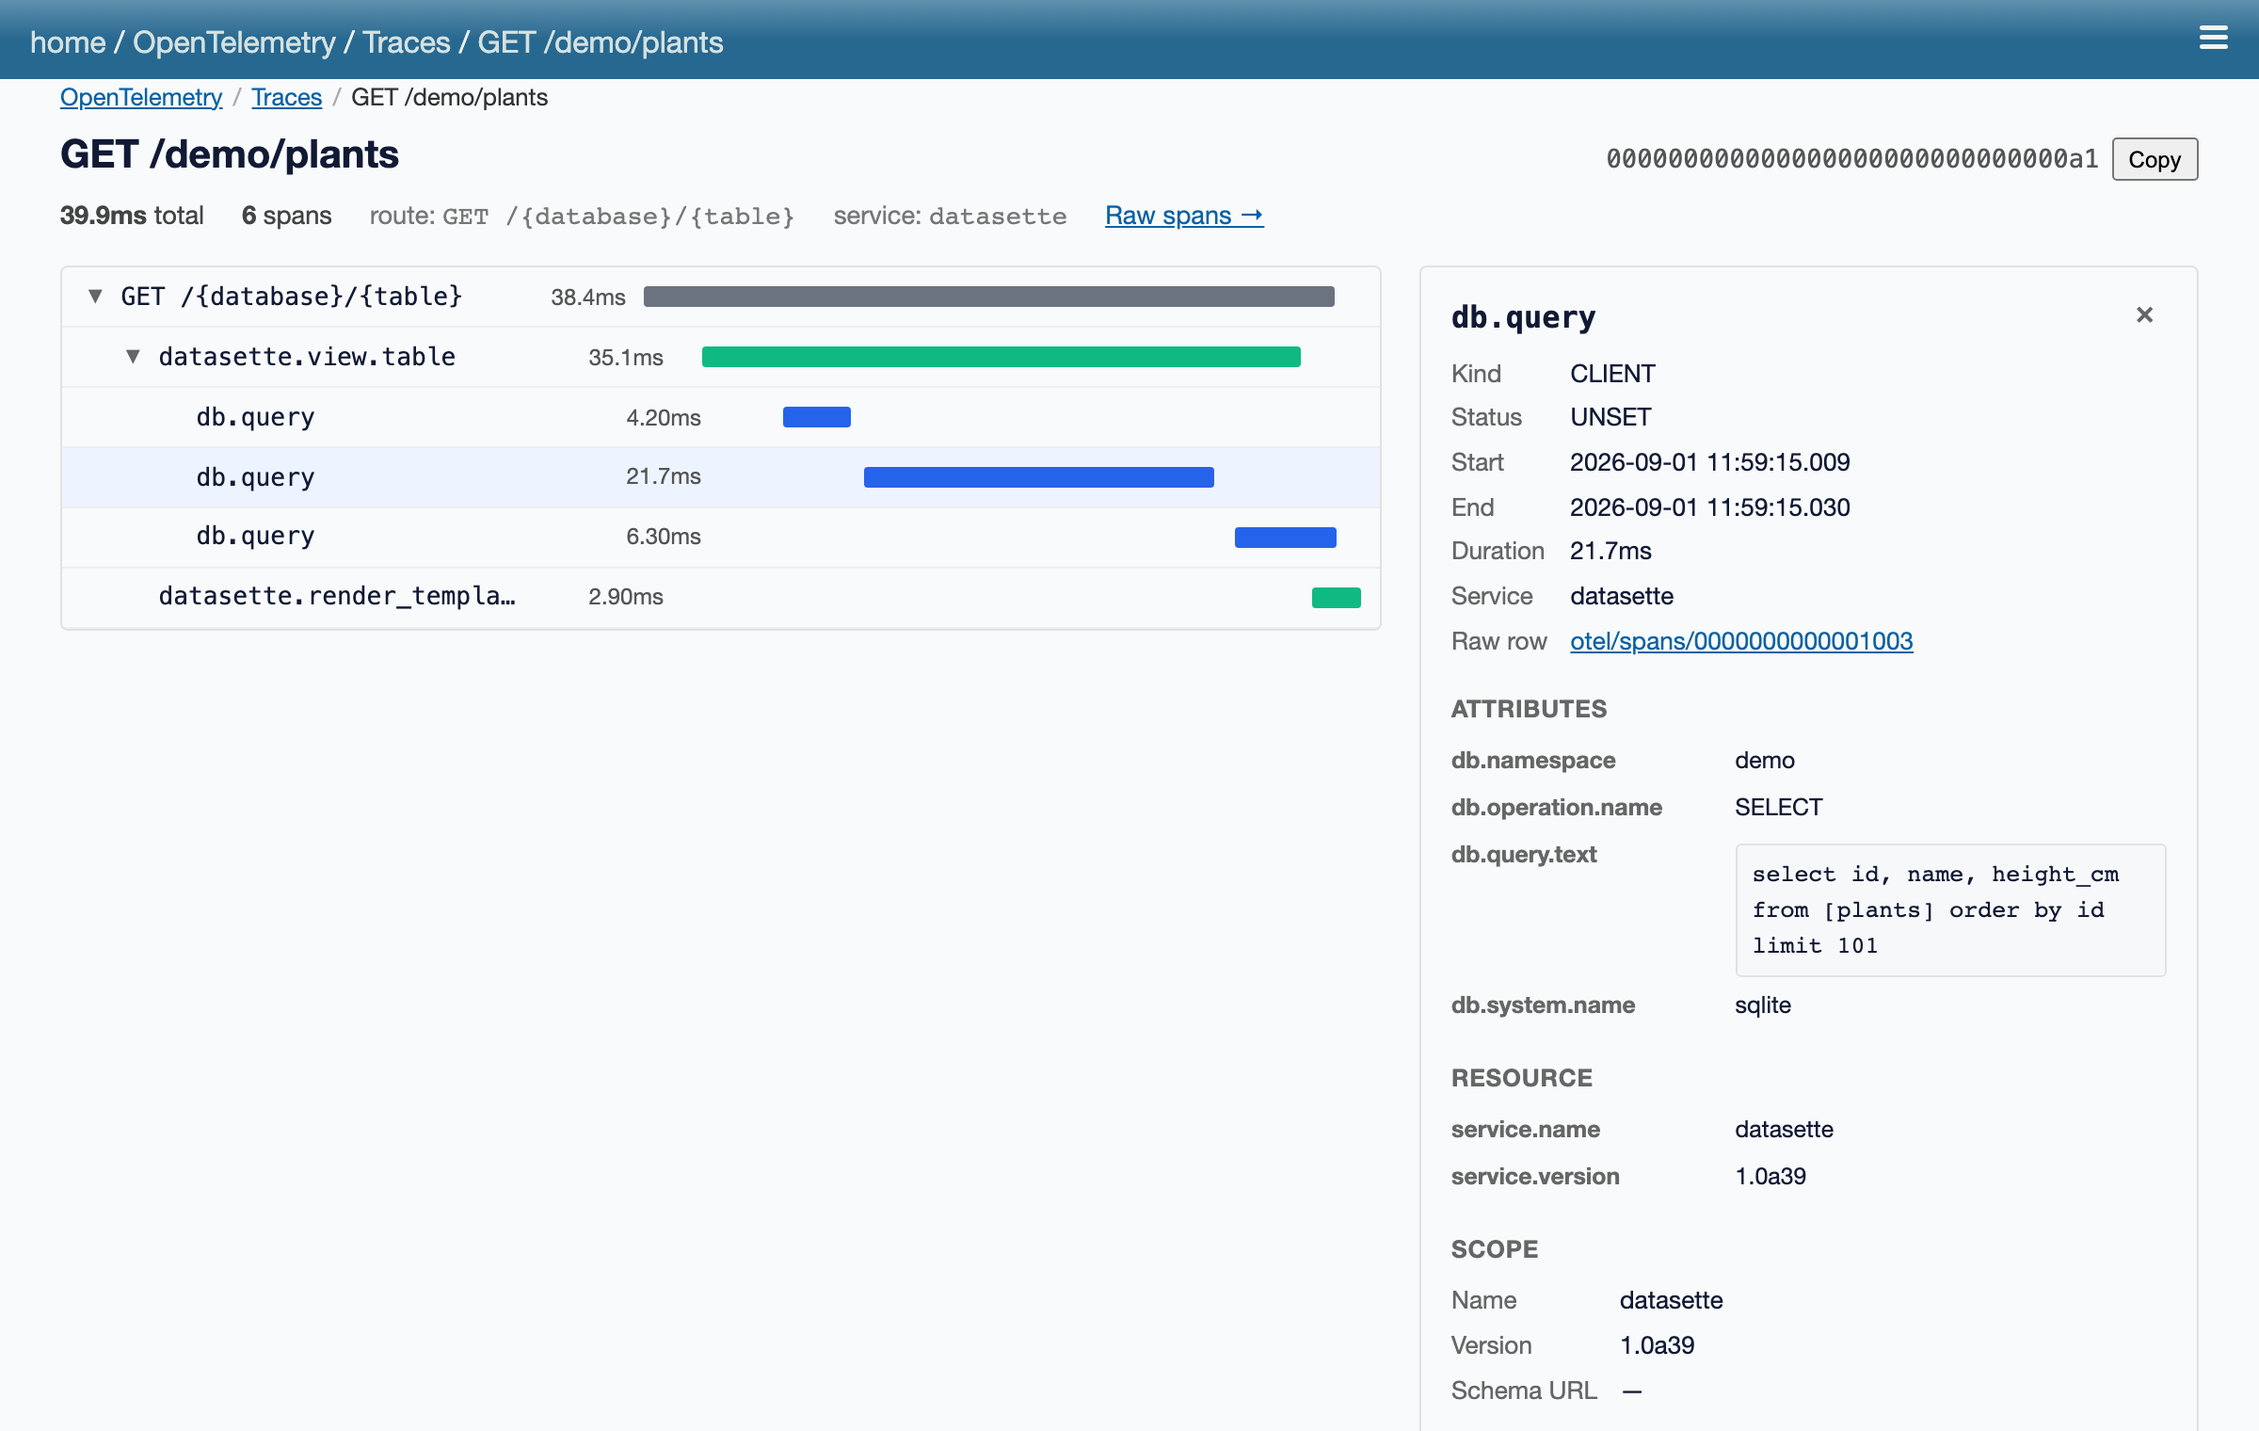
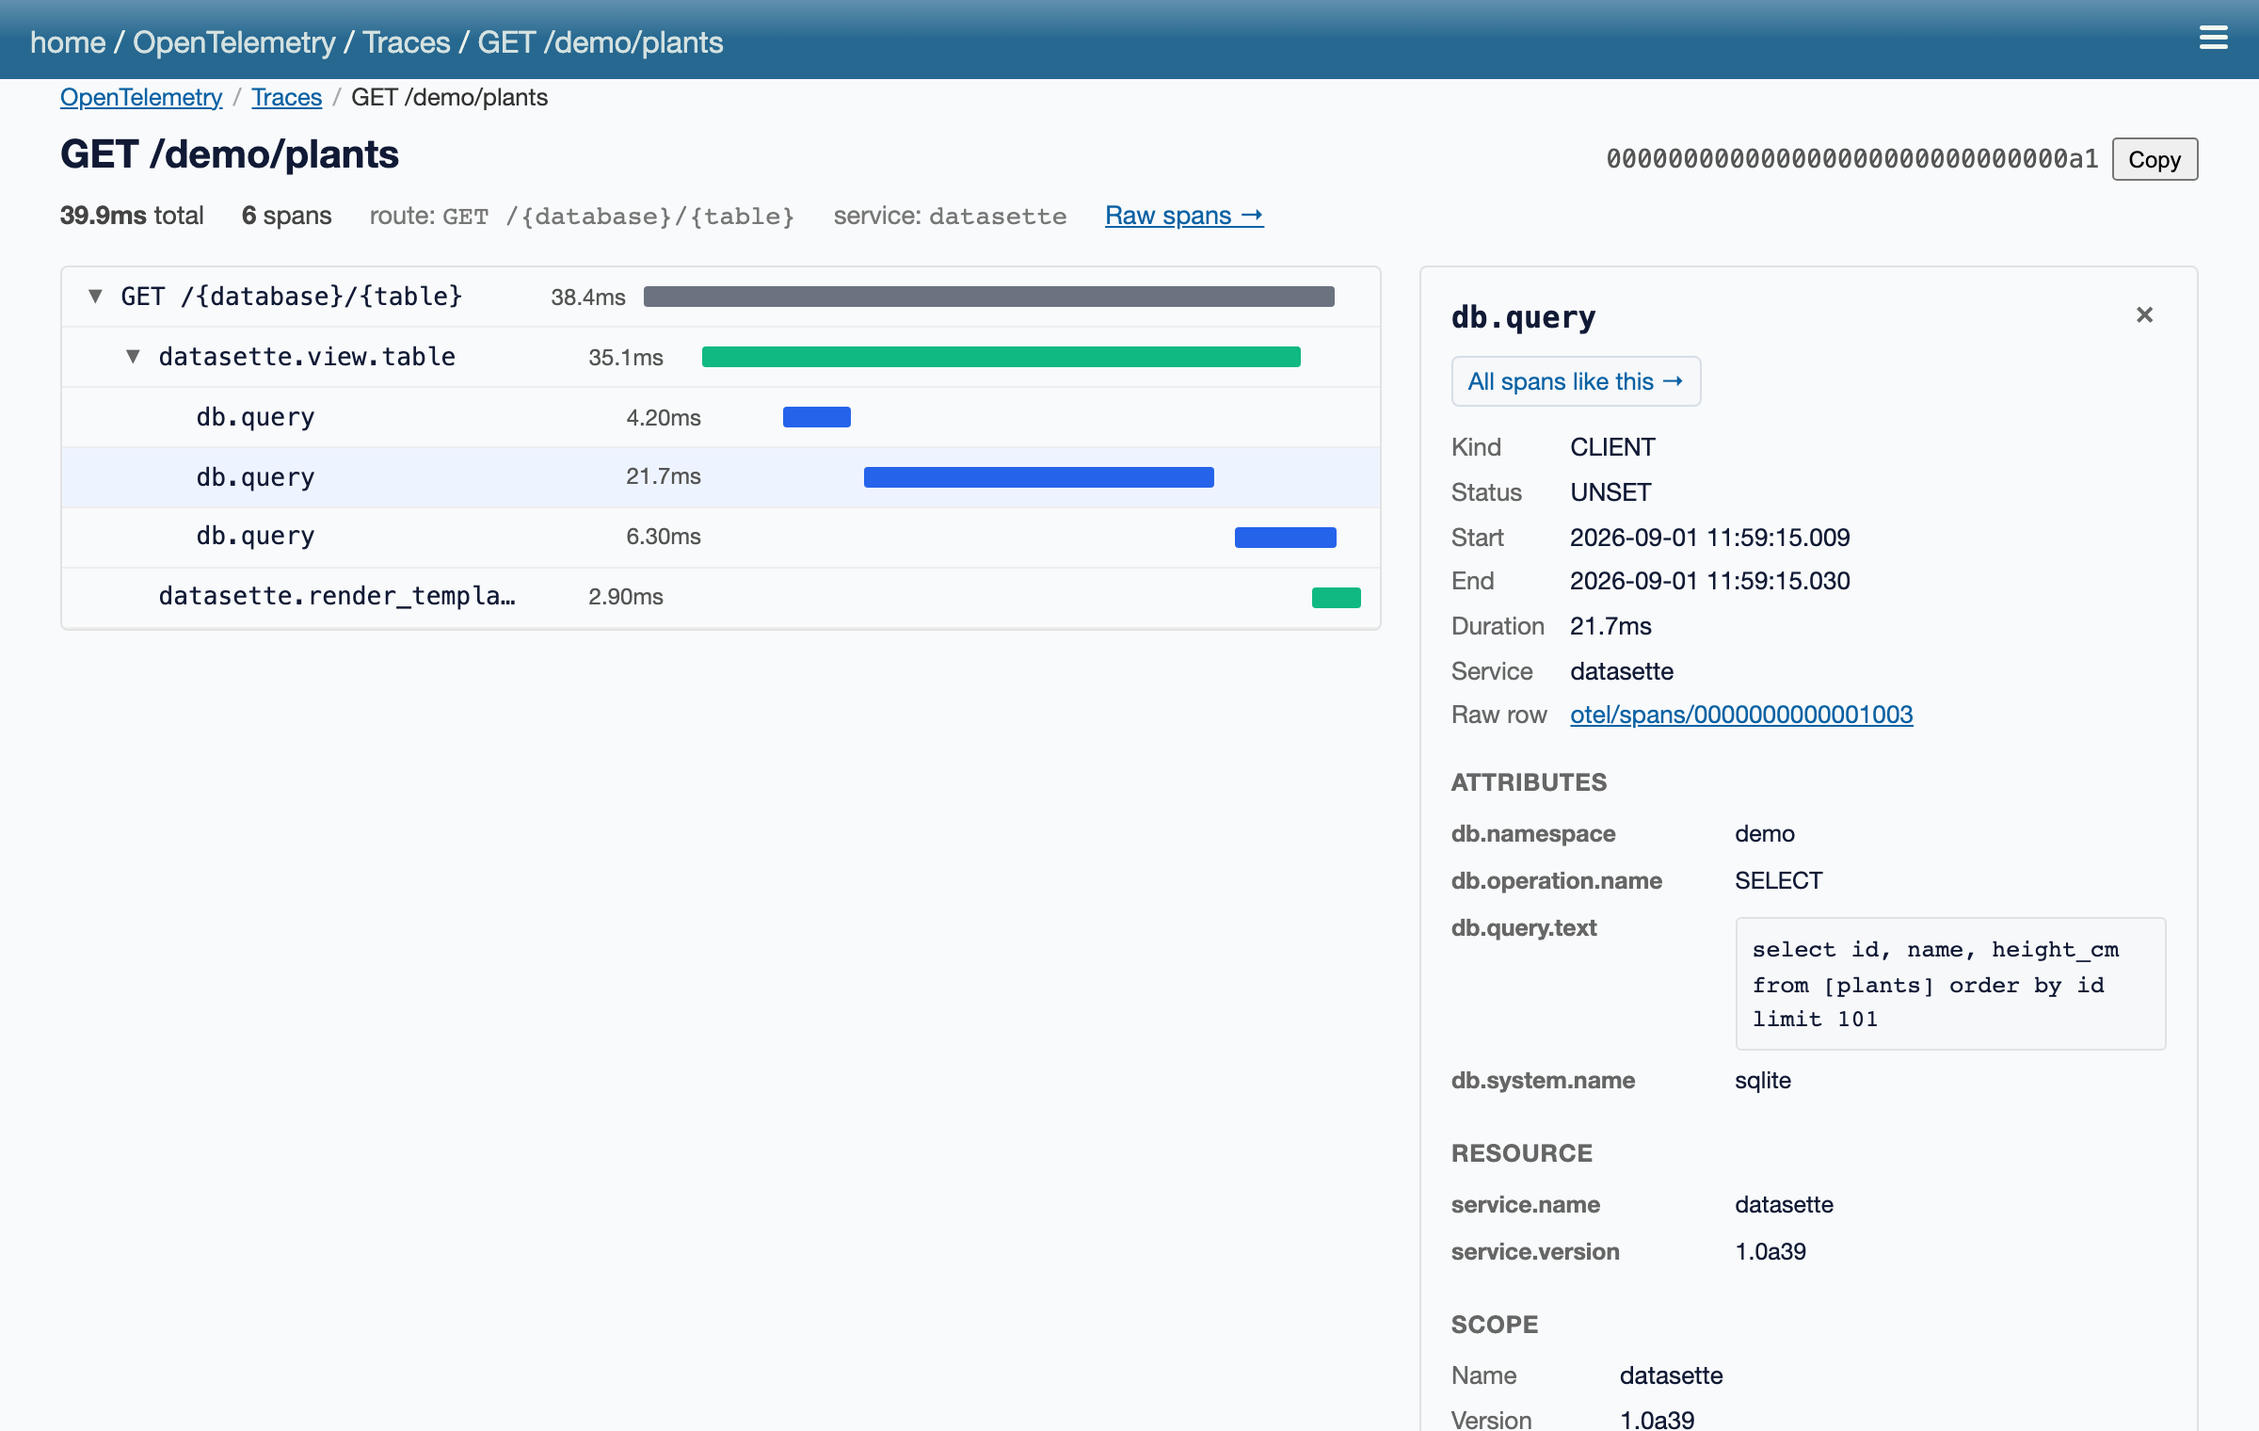
Link a span to every span like it
The waterfall could only ever show you one span in one trace, which is no
help at all in deciding whether 21ms is normal for it. "All spans like
this" in the inspector opens /-/otel/spans/list for that span's name and
scope, with the span itself pinned via ?highlight=<span_id>.

Pinning has to actually land on the span, or the link is a lie. With a
highlight and no cursor of its own, span_list() ranks the span with one
window over the matching spans -- under whatever ordering is in force --
and writes the resulting page offset back onto query.next, so the
frontend, the URL and Previous all see an ordinary offset from there.
An explicit _next wins, so paging away from the pinned page doesn't snap
back to it. The page scrolls the row into view and marks it; when the pin
isn't on the page in front of you (you paged on, or dropped a filter it
depended on) the chip says so, and dropping the chip drops the pin.

highlight is pattern-checked as a span id, so a bad one is a 400.

Claude-Session: https://claude.ai/code/session_0128EpC65FNHF1kZPeueAb12

Changed region(s): [[0.625, 0.2474, 0.9375, 0.7421], [0.625, 0.7421, 0.75, 1.0], [0.7812, 0.773, 0.8125, 0.8967]]

diff --git a/frontend/src/pages/spans_list/SpansListPage.svelte b/frontend/src/pages/spans_list/SpansListPage.svelte
@@ -49,6 +49,27 @@
     offset - size > 0 ? String(offset - size) : null,
   );
 
+  /** The span the trace view sent us to, if it is on the page in front of
+   * us. The server opens the list on the page holding it, so normally it is
+   * -- but paging on from there, or dropping a filter, can leave it behind,
+   * and a pin that quietly points at nothing is worse than one that says so. */
+  const highlightShown = $derived(
+    query.highlight != null &&
+      spans.some((row) => row.span_id === query.highlight),
+  );
+
+  // Bring the pinned row into view whenever it lands on the page: it can be
+  // row 80 of 100, and a highlight below the fold is not a highlight.
+  $effect(() => {
+    if (!highlightShown) return;
+    const id = query.highlight;
+    requestAnimationFrame(() => {
+      document
+        .getElementById(`span-row-${id}`)
+        ?.scrollIntoView({ block: "center" });
+    });
+  });
+
   /** What this list is showing, as removable chips: the catalogue row that
    * was opened, plus any filter it was carrying at the time. */
   const filterChips = $derived(
@@ -75,6 +96,13 @@
             `Slower than ${query.min_duration_ms} ms`,
         ],
         ["service", query.service && `Service ${query.service}`],
+        [
+          "highlight",
+          query.highlight &&
+            (highlightShown
+              ? "Span you came from"
+              : "Span you came from (not on this page)"),
+        ],
       ] as [keyof SpanListQuery, string | false | null | undefined][]
     )
       .filter(([, label]) => Boolean(label))
@@ -221,7 +249,9 @@
     <tbody>
       {#each spans as row (row.span_id)}
         <tr
+          id={`span-row-${row.span_id}`}
           class="row-link"
+          class:highlighted={row.span_id === query.highlight}
           onclick={() => (window.location.href = spanUrl(row))}
         >
           <td class="span-name">
@@ -397,6 +427,15 @@
   }
   tbody tr.row-link:hover {
     background: #f6f8fa;
+  }
+  tbody tr.highlighted > td {
+    background: #fff8e1;
+  }
+  tbody tr.highlighted > td:first-child {
+    box-shadow: inset 3px 0 0 #e0a800;
+  }
+  tbody tr.highlighted:hover > td {
+    background: #fdf1cd;
   }
   td.empty {
     text-align: center;

diff --git a/frontend/src/pages/trace_detail/TraceDetailPage.svelte b/frontend/src/pages/trace_detail/TraceDetailPage.svelte
@@ -101,6 +101,18 @@
     }
   }
 
+  /** The span catalogue, narrowed to this kind of work: same name, same
+   * instrumentation scope (which is what /-/otel/spans keys a row on), with
+   * this span pinned so the list opens on its page and marks its row. One
+   * span in one trace tells you nothing about whether 40ms is normal; this
+   * is the jump from "this span" to "every span like it". */
+  function spanListUrl(span: TraceDetailPageData["spans"][number]): string {
+    const params = new URLSearchParams({ name_exact: span.name });
+    if (span.scope_name) params.set("scope", span.scope_name);
+    params.set("highlight", span.span_id);
+    return `/-/otel/spans/list?${params}`;
+  }
+
   function attributeEntries(obj: Record<string, unknown>): [string, string][] {
     return Object.entries(obj).map(([k, v]) => [
       k,
@@ -178,6 +190,15 @@
             <h2 title={s.name}>{s.name}</h2>
             <button type="button" class="close-btn" onclick={closeInspector}
               >&times;</button
+            >
+          </div>
+
+          <div class="inspector-actions">
+            <a
+              class="action"
+              href={spanListUrl(s)}
+              title="Every span with this name and scope, this one highlighted"
+              >All spans like this &rarr;</a
             >
           </div>
 
@@ -327,6 +348,24 @@
     border: 1px solid #e2e2e2;
     border-radius: 4px;
     overflow: hidden;
+  }
+  .inspector-actions {
+    display: flex;
+    flex-wrap: wrap;
+    gap: 0.4rem;
+    margin: 0.5rem 0 0.75rem;
+  }
+  .inspector-actions .action {
+    display: inline-block;
+    font-size: 0.8rem;
+    padding: 0.2rem 0.5rem;
+    border: 1px solid #d7dee6;
+    border-radius: 0.25rem;
+    background: #f6f8fa;
+    text-decoration: none;
+  }
+  .inspector-actions .action:hover {
+    background: #eef2f6;
   }
   .inspector {
     width: 380px;

diff --git a/tests/test_spans_page.py b/tests/test_spans_page.py
@@ -315,17 +315,70 @@ async def test_split_value_and_statement_pin_a_row(make_ds):
 
 
 @pytest.mark.asyncio
+async def test_highlight_opens_the_page_holding_that_span(make_ds):
+    """A span in the trace waterfall links here to see its own kind of work in
+    context, so the list has to *land* on it: with a span pinned and no cursor
+    of its own, the server pages to wherever the ordering puts it."""
+    ds = await make_ds(public_viewer=True)
+    await store.insert_spans(
+        ds,
+        [
+            span_row(n, name="db.query", kind="CLIENT", duration_ms=float(n))
+            for n in range(1, 13)
+        ],
+    )
+    # Slowest first, so span 2 (2.0ms) is 11th of 12: page 3 at size 5.
+    pinned = await listed_spans(
+        ds, name_exact="db.query", size=5, highlight=f"{2:016x}"
+    )
+    assert pinned["query"]["next"] == "10"
+    assert [s["duration_ms"] for s in pinned["spans"]] == [2.0, 1.0]
+    assert pinned["spans"][0]["span_id"] == f"{2:016x}"
+
+    # The sort is still yours: pinned under the oldest-first order it is 2nd.
+    oldest = await listed_spans(
+        ds, name_exact="db.query", size=5, sort="start_ns", highlight=f"{2:016x}"
+    )
+    assert oldest["query"]["next"] == "0"
+    assert oldest["spans"][0]["duration_ms"] == 1.0
+
+    # An explicit cursor wins: paging on from the pinned page must not snap
+    # back to it, and the pin stays on the query for the row marking.
+    paged = await listed_spans(
+        ds, name_exact="db.query", size=5, highlight=f"{2:016x}", next="0"
+    )
+    assert [s["duration_ms"] for s in paged["spans"]] == [12.0, 11.0, 10.0, 9.0, 8.0]
+    assert paged["query"]["highlight"] == f"{2:016x}"
+
+    # A span that no longer matches the filters is simply not found: the list
+    # answers from row one and the frontend says the pin is not on this page.
+    missing = await listed_spans(ds, name_exact="db.query", highlight=f"{999:016x}")
+    assert missing["query"]["next"] is None
+    assert missing["total"] == 12
+
+    bad = await ds.client.post(
+        "/-/otel/api/spans/list", json={"highlight": "../../etc"}
+    )
+    assert bad.status_code == 400
+    assert "highlight is not a span id" in bad.json()["error"]
+
+
+@pytest.mark.asyncio
 async def test_span_list_page_renders_and_is_gated(make_ds):
     ds = await make_ds(public_viewer=True)
     await store.insert_spans(ds, cron_trace(3, task="backup", duration_ms=5.0))
     response = await ds.client.get(
         "/-/otel/spans/list?name_exact=datasette_cron.run&scope=datasette_cron"
+        f"&highlight={3:016x}"
     )
     assert response.status_code == 200
     assert "src/pages/spans_list/index.ts" in response.text
     data = page_data(response.text)
     assert data["total"] == 1
     assert data["query"]["name_exact"] == "datasette_cron.run"
+    # The pin arrives from the trace waterfall in the URL and rides the page
+    # data through to the row marking.
+    assert data["query"]["highlight"] == f"{3:016x}"
     assert data["database"] == "otel"
     # The page names the row it opened, in the title and the crumbs.
     assert "<title>datasette_cron.run</title>" in response.text

diff --git a/datasette_otel_viewer/queries.py b/datasette_otel_viewer/queries.py
@@ -942,16 +942,40 @@ async def span_list(datasette, query: SpanListQuery) -> SpanListResponse:
     where, params = _span_list_where(query)
     source = _SPAN_GROUPS_SQL.format(where=where)
     params = [query.split_by] + params
+    order = _span_order_clause(query)
     total = (
         await db.execute(f"select count(*) from ({source})", params)
     ).single_value()
+    if query.highlight and query.next is None:
+        # Arriving with a span to pin and no cursor of your own: open on the
+        # page that holds it. Its rank is one window over the matching spans
+        # -- the same set the page query sorts anyway -- and the answer is
+        # written back onto `next`, so paging, the URL and the Previous
+        # button all see an ordinary offset from here on.
+        # .first(), not .single_value(): a pin that matches nothing (filters
+        # changed under it, or the span aged out) returns no row at all.
+        found = (
+            await db.execute(
+                f"""
+                with matching as ({source}),
+                ranked as (
+                  select span_id, row_number() over (order by {order}) as rn
+                  from matching
+                )
+                select rn from ranked where span_id = ?
+                """,
+                params + [query.highlight],
+            )
+        ).first()
+        if found is not None:
+            query.next = str((found["rn"] - 1) // query.size * query.size)
     result = await db.execute(
         f"""
         with matching as ({source})
         select m.*, t.name as trace_root_name
         from matching m
         left join traces t on t.trace_id = m.trace_id
-        order by {_span_order_clause(query)} limit ? offset ?
+        order by {order} limit ? offset ?
         """,
         # One row past the page, as in list_traces: its presence is the
         # "is there a next page?" test.

diff --git a/datasette_otel_viewer/page_data.py b/datasette_otel_viewer/page_data.py
@@ -279,6 +279,9 @@ NESTING_NESTED = "nested"
 # the shape of an OTel attribute key (letters, digits, . _ - /) -- never a
 # quote, which is what could break out of the path.
 ATTRIBUTE_KEY_PATTERN = re.compile(r"^[A-Za-z0-9_.\-/]{1,128}$")
+# A span id as the SDK writes it: hex, and short. Pattern-checked because it
+# reaches the list as a filter, and because a bad one should be a 400.
+SPAN_ID_PATTERN = re.compile(r"^[0-9a-fA-F]{1,32}$")
 
 
 class SpanFilters(BaseModel):
@@ -388,6 +391,10 @@ class SpanListQuery(SpanFilters):
     split_value: str | None = None
     # Exact db.query.text (or datasette.callback), for /-/otel/sql's rows.
     statement: str | None = None
+    # One span_id to pin: the list opens on the page holding it (unless a
+    # cursor says otherwise) and the frontend marks the row. This is how a
+    # span in the waterfall gets to see its own kind of work in context.
+    highlight: str | None = None
 
     size: int = Field(default=DEFAULT_SIZE, ge=1, le=MAX_SIZE)
     sort: str | None = None
@@ -409,6 +416,8 @@ class SpanListQuery(SpanFilters):
             self.sort_desc = DEFAULT_SPAN_SORT_DESC
         if self.next is not None and not self.next.isdigit():
             raise ValueError("next must be a cursor from a previous response")
+        if self.highlight is not None and not SPAN_ID_PATTERN.match(self.highlight):
+            raise ValueError(f"highlight is not a span id: {self.highlight!r}")
         return self
 
     @property

diff --git a/datasette_otel_viewer/routes/pages.py b/datasette_otel_viewer/routes/pages.py
@@ -267,6 +267,7 @@ async def spans_list_page(datasette, request):
             name_exact=args.get("name_exact") or None,
             split_value=args.get("split_value"),
             statement=args.get("statement") or None,
+            highlight=args.get("highlight") or None,
             size=args.get("_size") or DEFAULT_SIZE,
             sort=args.get("_sort") or None,
             sort_desc=args.get("_sort_desc") or None,

diff --git a/CLAUDE.md b/CLAUDE.md
@@ -173,6 +173,14 @@ the real `Annotated[..., Body()]` objects at decoration time.
   `page_data.SpanFilters`. A summary row is a *group*, so opening one drills
   into `span_list()` (the spans behind it, paged like the trace list), never
   into a single span -- the slowest-span jump stays on the Max cell.
+- `SpanListQuery.highlight` is one span_id to pin: the trace inspector's "All
+  spans like this" link into `span_list()`. With no cursor of its own,
+  `span_list()` ranks that span with one window over the matching spans under
+  the query's own ordering and writes the page offset back onto `query.next`,
+  so the frontend, the URL and Previous all see an ordinary offset. An
+  explicit `_next` wins, which is what stops paging away from the pinned page
+  snapping back to it; SpansListPage marks the row and says so on the chip
+  when the pin is not on the page in front of you.
 - The traces list's `?root=` filter buckets traces by root span --
   `queries.root_kinds` derives the buckets from the store (HTTP roots
   collapsed, everything else by span name and instrumentation scope), so

diff --git a/NOTES.md b/NOTES.md
@@ -222,6 +222,15 @@ you can drop one at a time; each span links into its own waterfall, and says
 which trace it sits inside. The Max cell on the catalogue still jumps
 straight to the slowest single span.
 
+The waterfall goes the other way too: **All spans like this** in a selected
+span's inspector opens that same list for its name and scope, with the span
+itself pinned (`?highlight=<span_id>`). One span in one trace can't tell you
+whether 21ms is normal; the list opens on the page holding it — the rank is
+computed under whatever ordering is in force — scrolls to it and marks the
+row, so it sits among its peers. Sorting keeps the pin in view; paging away
+from it, or dropping a filter it depended on, leaves the chip saying "not on
+this page", and the chip drops the pin.
+
 The other summary pages are this one zoomed in on a particular kind of work:
 `/-/otel/http` on the request roots, `/-/otel/sql` on the `db.query` spans
 broken down by statement rather than by name — and a row there opens the same
